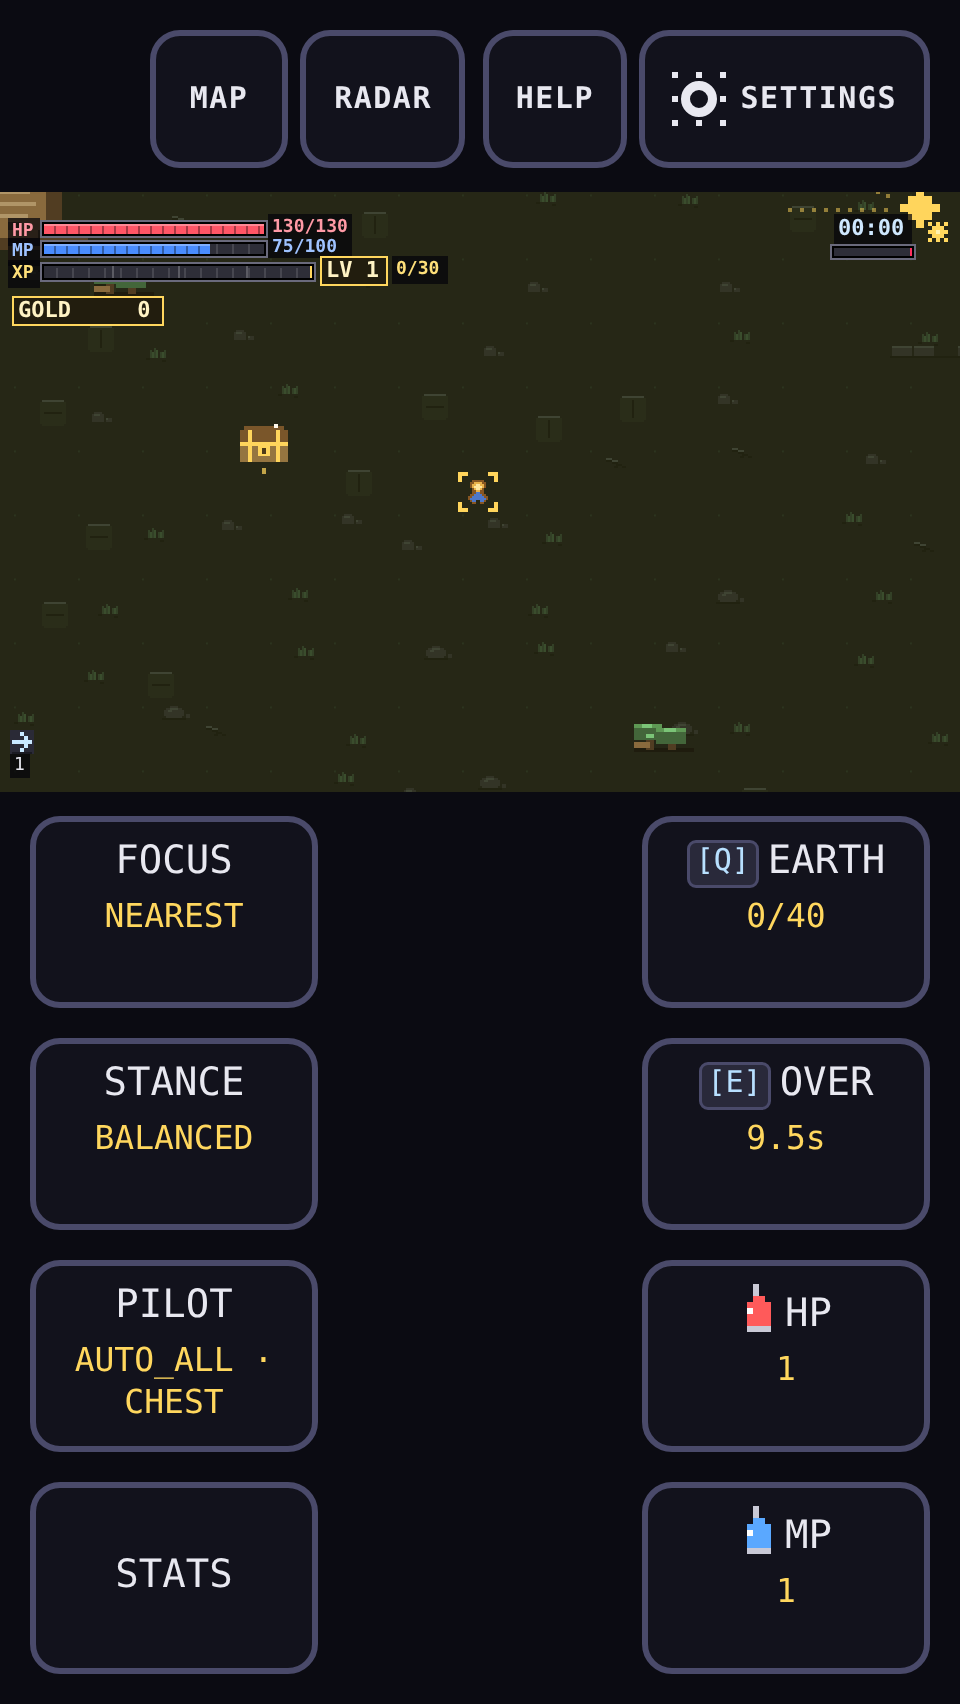
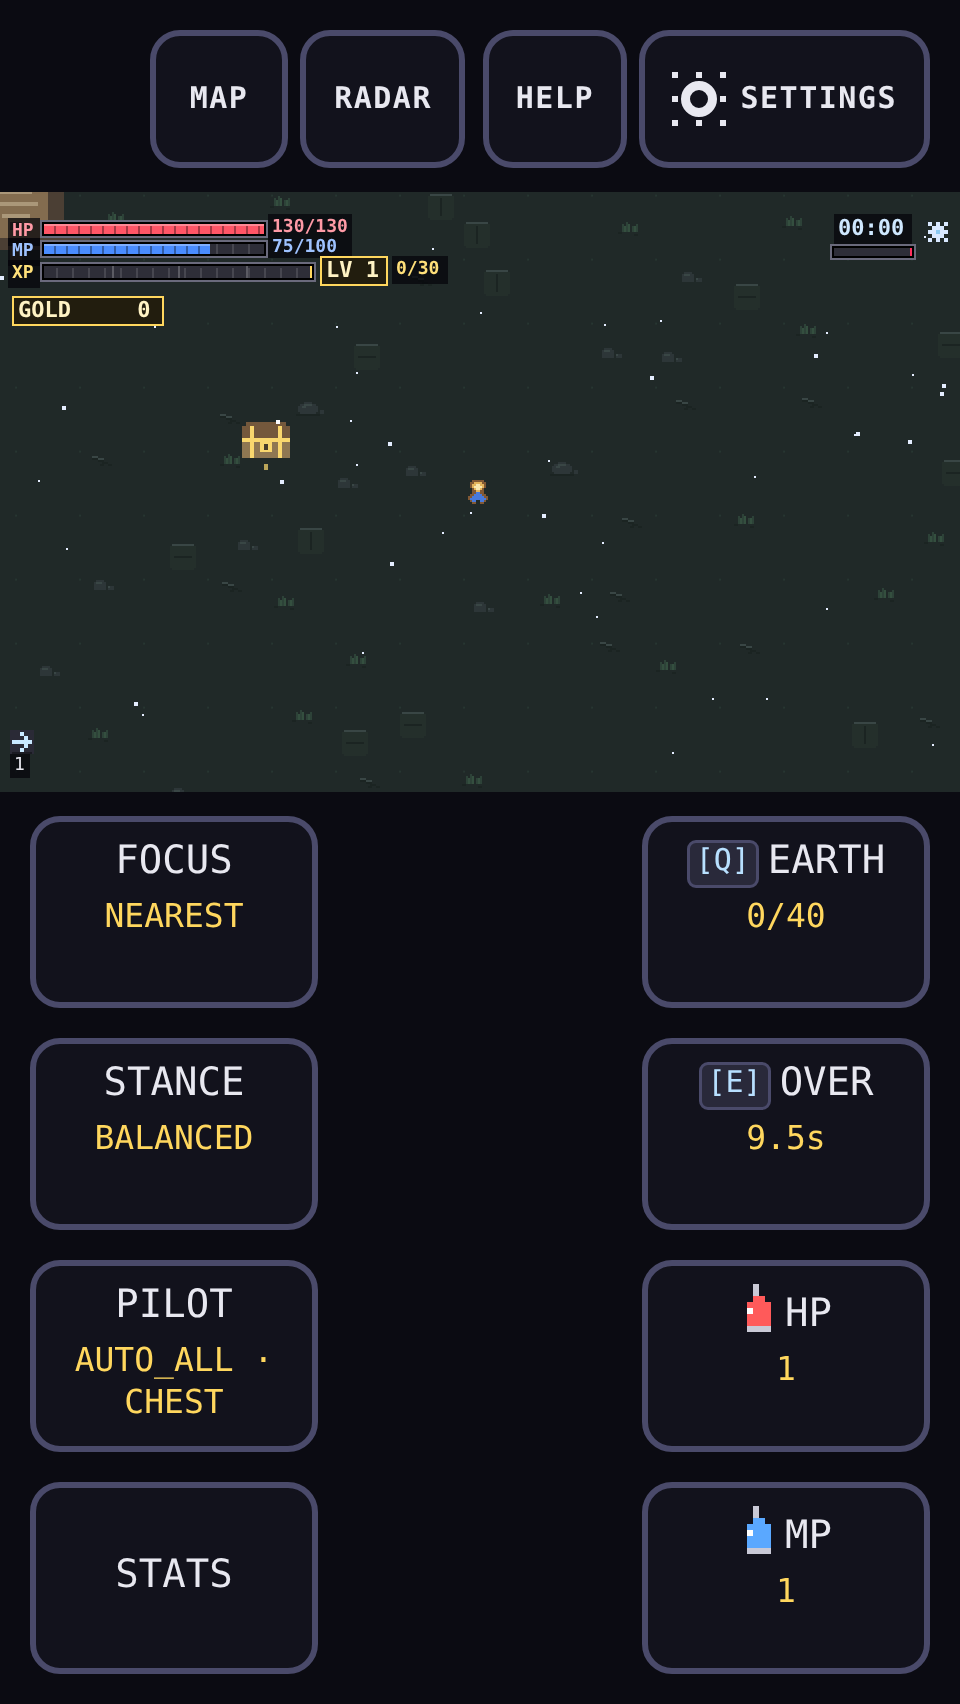
hordes: 2026-09-18 17:45 batch
Touched: src/config.js src/main.js src/render.js test/test_audio.mjs test/test_runchests.mjs
Suite green at commit time (154 files).

diff --git a/src/main.js b/src/main.js
@@ -922,6 +922,14 @@ const state = {
   // re-offered by the next startRun, so a player who never reaches it cannot
   // lose it (claim-at-collection; profile.milestoneChest is the claim).
   runChest: null,
+  // The collection BURST (the "big and cool" addendum): while set, the frozen
+  // field (mode 'burst') paints the coin/spark shower at the spot the chest
+  // stood (render.js drawChestBurst); tickChestBurst ages it on the WALL
+  // clock and opens the celebration card when it expires. { x, y, t,
+  // milestone, reward } — the bank + claim are ALREADY persisted when this
+  // is armed, so a tab close mid-firework can neither double-pay nor lose
+  // the chest.
+  chestBurst: null,
   runSettled: null,  // S1: the run's ONE settlement (numbers, once paid) — run-once guard
   mawDeadline: 0,    // sim time the maw encounter's window closes
   // ---- IN-RUN REFERENCE ACCESS: the reference's return door + the end
@@ -7629,6 +7637,7 @@ function startRun() {
   // milestones live in profile.milestoneChest (v10) — the chest spawns again
   // next run if this one ends uncollected: UNLOSABLE by construction.
   state.runChest = null;
+  state.chestBurst = null;   // a burst never carries across the run boundary
   {
     const settled = Number(profile.achievements && profile.achievements.totals &&
       profile.achievements.totals.runs) || 0;
@@ -7685,13 +7694,33 @@ function collectRunChest() {
   if (!state.runChest) return;
   const milestone = state.runChest.milestone;
   const reward = runChestGold(profile.achievements && profile.achievements.totals);
+  const bx = state.runChest.x, by = state.runChest.y;
   state.runChest = null;                    // first: off the field, once
   profile.gold = Math.min(Number.MAX_SAFE_INTEGER, profile.gold + reward);
   profile.milestoneChest = milestone;       // the claim: highest COLLECTED
   persistProfile();                         // bank + claim in ONE save
   toast('MILESTONE CHEST: +' + reward + ' GOLD BANKED');
   audio.playSfx('chest');
-  openChestCard(milestone, reward);
+  // BURST THEN CARD (the "big and cool" addendum): the payoff's first beat
+  // is the shower on the FROZEN field (mode 'burst' is not a ticked mode —
+  // the same contract the card itself rides), and the card opens only when
+  // it expires (tickChestBurst). The bank + claim above are already saved,
+  // so the sequencing is cosmetic — a tab close mid-firework loses nothing.
+  state.mode = 'burst';
+  state.chestBurst = { x: bx, y: by, t: 0, milestone, reward };
+}
+
+// The wall-clock half of the burst: ages the shower (frame-rate
+// independent — progress is accumulated realDt, never per-frame assumed)
+// and hands off to the card exactly once.
+function tickChestBurst(realDt) {
+  const b = state.chestBurst;
+  if (!b) return;
+  b.t += realDt;
+  if (b.t >= C.RUN_CHEST.BURST_TTL) {
+    state.chestBurst = null;
+    if (state.mode === 'burst') openChestCard(b.milestone, b.reward);
+  }
 }
 
 function openChestCard(milestone, reward) {
@@ -10812,6 +10841,9 @@ function frame(now) {
   // RSS8: the magnet sweep ticks on the same wall-clock slot (see
   // tickMagnetSweep — it must keep running while a level-up draft parks the sim).
   tickMagnetSweep(realDt);
+  // v10 milestone chest: the collection burst ages on this same wall-clock
+  // slot (mode 'burst' freezes the sim — the shower would never age on dt).
+  tickChestBurst(realDt);
   if (state.mode === 'intro') {
     const t = now - introT0;
     INTRO.render(renderer.ctx, t);
@@ -11013,6 +11045,7 @@ export const __TEST = {
     closeCard: closeChestCard,
     get chest() { return state.runChest; },
     set chest(v) { state.runChest = v; },
+    get burst() { return state.chestBurst; },
   },
   // ---- G26 pre-run-loadout seam: the screen, the live stored choice, and the
   // validated kit startRun will arm (so a test compares the menu's state

diff --git a/src/render.js b/src/render.js
@@ -233,6 +233,49 @@ export function prologueShieldColor(elapsedS, reduced, offsetDeg = 0) {
   return 'hsl(' + hue + ',85%,64%)';
 }
 
+// RUN-COUNT MILESTONE CHEST — the collection BURST (the "big and cool"
+// addendum): a coin/spark shower + expanding ring at the spot the chest
+// stood, aged by main.js on the WALL clock (mode 'burst' freezes the sim,
+// so the shower plays out over the frozen field BEFORE the card opens —
+// the burst-then-card contract). Integer pixels only; DETERMINISTIC angles
+// (no per-frame randomness — the same shower every collection, and a test
+// can pin it). Reduced motion: one static gold ring fading out, no flight.
+// Pure painter: g + state + cam in, painted/not out.
+export function drawChestBurst(g, state, cam) {
+  const b = state.chestBurst;
+  if (!b) return false;
+  const p = Math.max(0, Math.min(1, b.t / C.RUN_CHEST.BURST_TTL));
+  const x = Math.round(b.x - cam.x), y = Math.round(b.y - cam.y);
+  const ring = (rr, col) => {
+    g.fillStyle = col;
+    g.fillRect(x - rr, y - 1, 2, 2); g.fillRect(x + rr - 2, y - 1, 2, 2);
+    g.fillRect(x - 1, y - rr, 2, 2); g.fillRect(x - 1, y + rr - 2, 2, 2);
+  };
+  if (prefersReducedMotion()) {
+    ring(10, 'rgba(255,215,94,' + (0.8 * (1 - p)).toFixed(2) + ')');
+    return true;
+  }
+  // White core flash only in the first fifth of the window.
+  if (p < 0.2) {
+    g.fillStyle = 'rgba(255,255,255,' + (0.85 * (1 - p / 0.2)).toFixed(2) + ')';
+    g.fillRect(x - 10, y - 10, 20, 20);
+  }
+  // The beacon's goodbye: an expanding ring of arc ticks, alpha fading.
+  ring(6 + Math.round(p * 26), 'rgba(255,215,94,' + (0.9 * (1 - p)).toFixed(2) + ')');
+  // The coin/spark shower: fixed angles, ease-out radius, a slight lift —
+  // every third spark white-hot, the rest chest-gold.
+  const n = C.RUN_CHEST.BURST_SPARKS;
+  const dist = 4 + Math.round(p * 22);
+  for (let i = 0; i < n; i++) {
+    const a = (i / n) * Math.PI * 2;
+    const sx = x + Math.round(Math.cos(a) * dist);
+    const sy = y + Math.round(Math.sin(a) * dist) - Math.round(p * 6);
+    g.fillStyle = i % 3 === 0 ? '#ffffff' : '#ffd75e';
+    g.fillRect(sx - 1, sy - 1, 2, 2);
+  }
+  return true;
+}
+
 export class Renderer {
   constructor(canvas) {
     this.canvas = canvas;
@@ -543,7 +586,12 @@ export class Renderer {
     // state.runChest says; main.js clears it at collection alone).
     if (state.runChest) {
       const chx = Math.round(state.runChest.x - cam.x);
-      const chy = Math.round(state.runChest.y - cam.y);
+      // The idle BOUNCE (the "big and cool" addendum): a 2px integer hop on
+      // the sim clock — a treasure sits alive on the field, not painted into
+      // the ground. Static when the OS asks for reduced motion.
+      const bob = prefersReducedMotion() ? 0 :
+        Math.round(Math.abs(Math.sin((state.time || 0) * C.RUN_CHEST.BOB_HZ * Math.PI)) * C.RUN_CHEST.BOB_PX);
+      const chy = Math.round(state.runChest.y - cam.y) - bob;
       if (!cull(chx, chy, 30)) {
         const ct = state.time || 0;
         const cph = (ct % 2) / 2;
@@ -574,6 +622,9 @@ export class Renderer {
         }
       }
     }
+
+    // RUN-COUNT MILESTONE CHEST — the collection BURST, same world slot.
+    drawChestBurst(g, state, cam);
 
     // Arches (arches.js): pixel gates — twin pillars, lintel + stepped cap,
     // shimmering field in the arch type's color (pulse while untriggered).

diff --git a/src/config.js b/src/config.js
@@ -650,6 +650,15 @@ export const CONFIG = {
   RUN_CHEST: {
     DX: -115,
     DY: -20,
+    // The "big and cool" addendum's drawn-art motion, both integer-pixel:
+    // BOB is the idle field bounce (a 2px hop on the sim clock, static under
+    // reduced motion); BURST is the collection payoff — a ~0.9s coin/spark
+    // shower on the WALL clock that plays out on the frozen field (mode
+    // 'burst') BEFORE the card opens, so the payoff reads burst-then-card.
+    BOB_HZ: 2.5,
+    BOB_PX: 2,
+    BURST_TTL: 0.9,
+    BURST_SPARKS: 12,
   },
 
 
